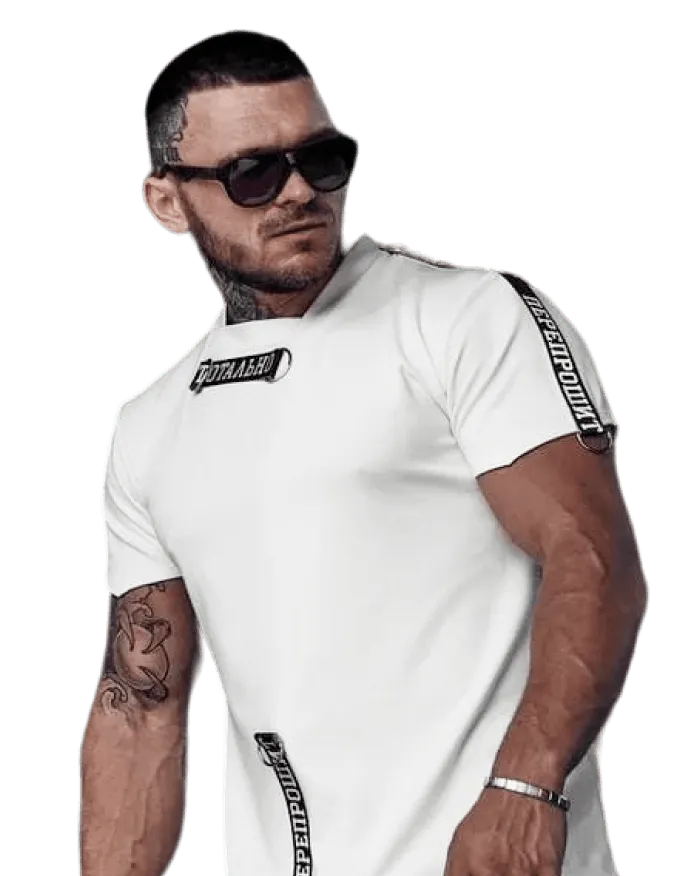
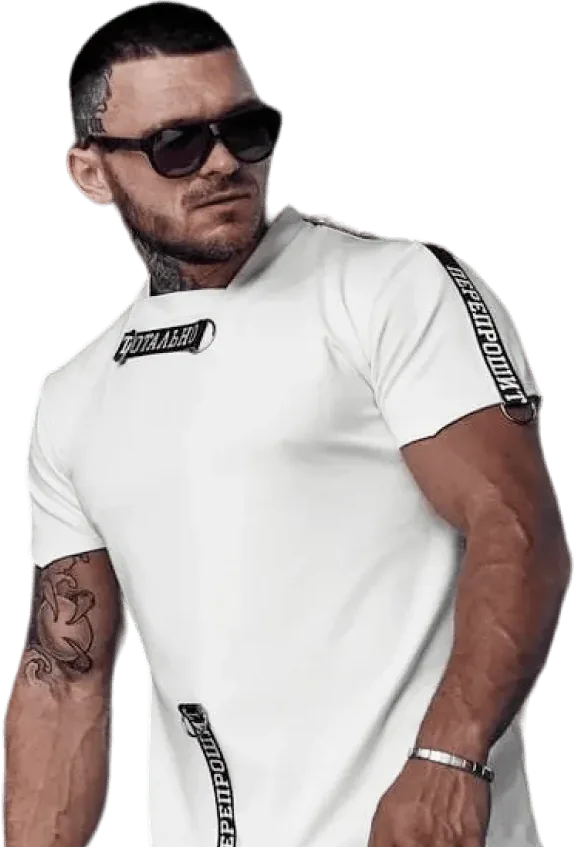
Главная: картинки категорий обрезаны по предмету, на телефоне шире – обувь и парфюм не мельчат
Владелец 17.11.2026: «в мобильной версии косяк по размеру фото», «парфюм тоже
слишком маленькое». У картинок были разные прозрачные поля (у мужской обуви
широкие) – обрезаны по альфа-каналу, sizes в home.json обновлены; на телефоне
картинка 56%×80% карточки вместо 46%×92%.

diff --git a/src/styles/home-blocks.css b/src/styles/home-blocks.css
@@ -482,9 +482,10 @@
     max-width: 52%;
     font-size: 12px;
   }
+  /* картинки категорий обрезаны по предмету (17.11.2026) – на телефоне шире, чтобы обувь и парфюм не мельчили */
   .cat img {
-    width: 46%;
-    height: 92%;
+    width: 56%;
+    height: 80%;
   }
   .brand__word,
   .ft__word {
